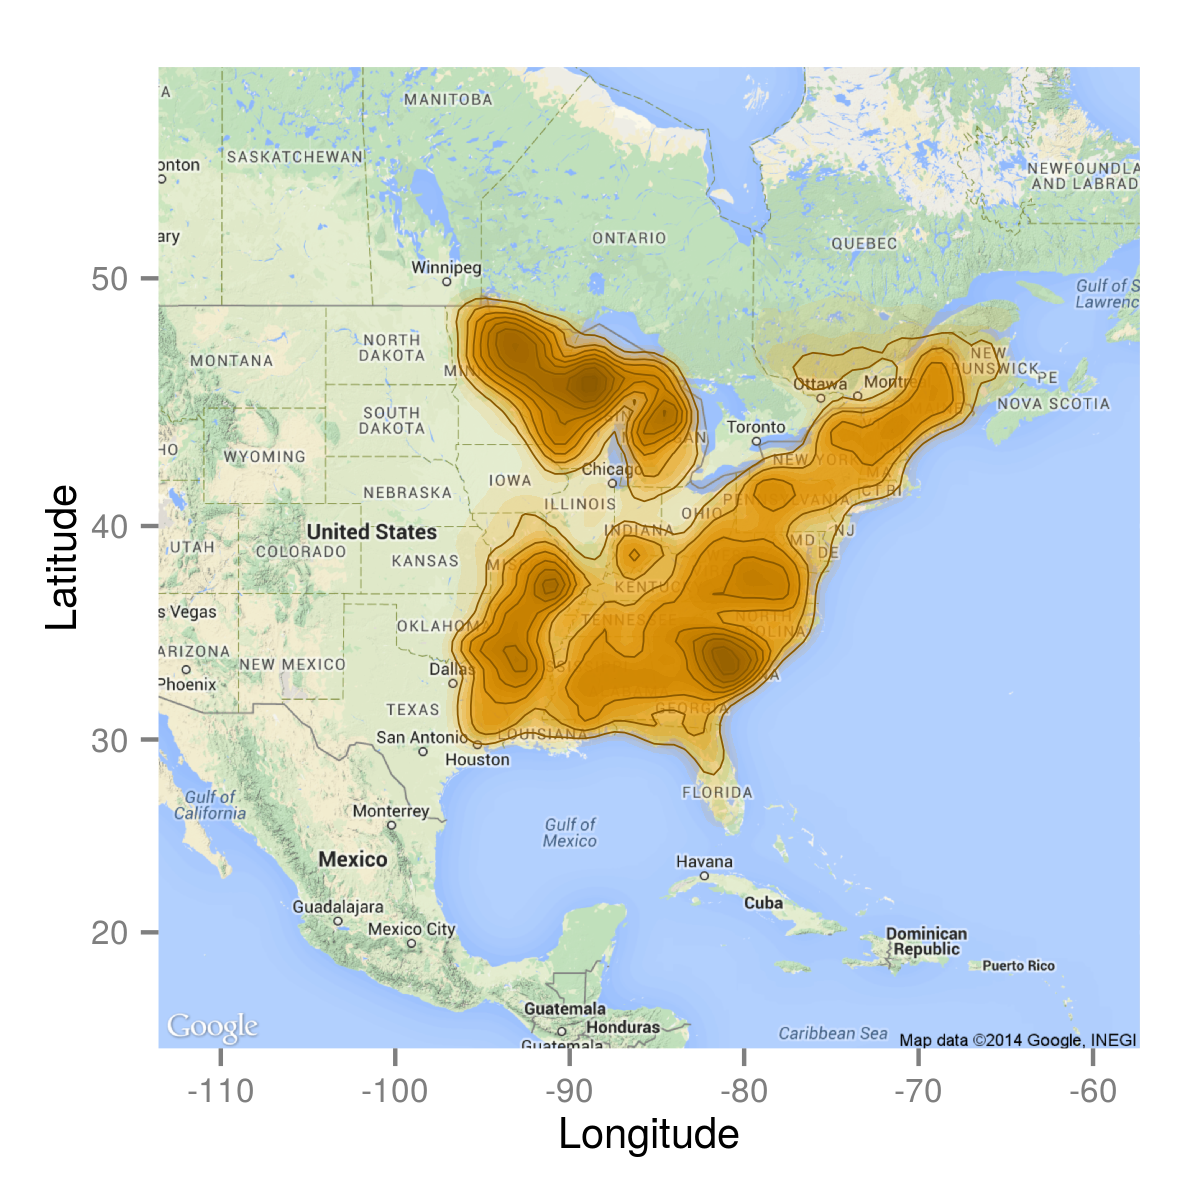
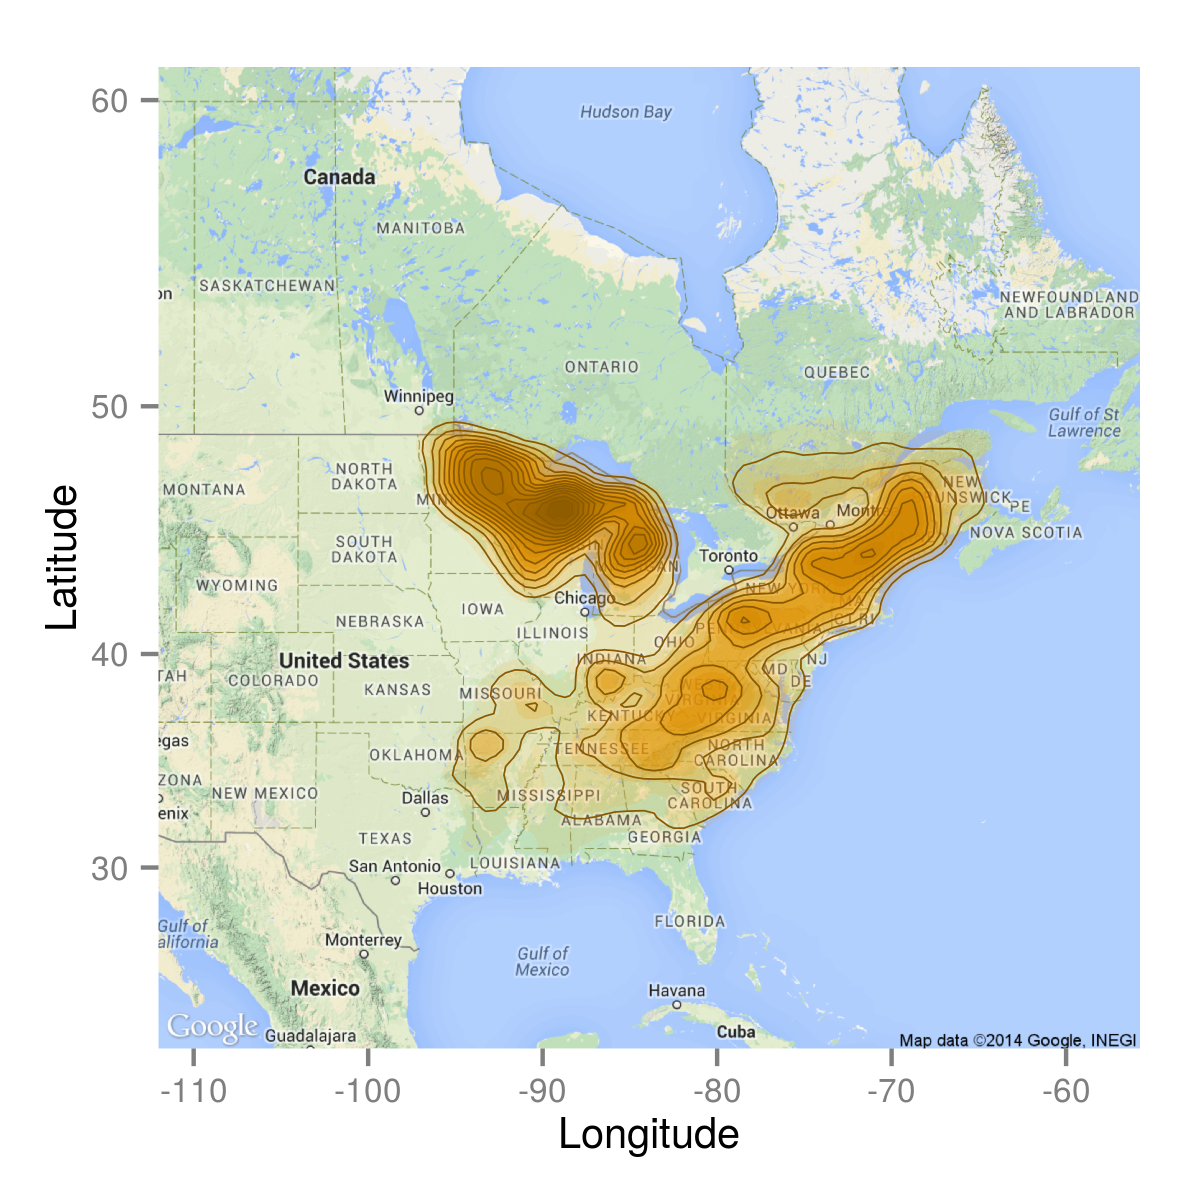
Add local config on .gitignore; switch code_species emplacement; refresh plots map for README

diff --git a/README.md b/README.md
@@ -64,7 +64,7 @@ Column | Description
 ---- | ---
 **plot_id** | Unique id of the plot
 **year_measured** | year of the measurement
-**id_spe** | Species code, details are available in ./out_files/stm_code_species.csv file
+**id_spe** | Species code, details are available in ./stm_code_species.csv file
 **basal area** | basal area of the species in **m²/ha**
 
 ### climData 
